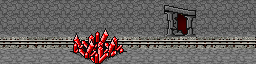
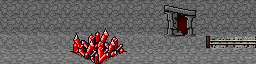
La_Mina2: short rail ending at a buffer stop (option C)

Changed region(s): [[0.4062, 0.5625, 0.8438, 0.7812], [0.0, 0.5625, 0.3438, 0.7812]]

diff --git a/docs/ARCHIVE.md b/docs/ARCHIVE.md
@@ -2171,3 +2171,11 @@ Date: 2026-11-24 (from the author, via dev)
 Belief meter marker (statsPages.js beliefMeter, img/ui/faith/faith_meter_marker.png, now 5x5 px, a simple diamond): hard to read. Draw something more visible that says it can move, e.g. a little stick or needle (about 3 x 10 px, pointing out from the candle along the ring). Dev placed a plain cream stick as a stand-in with a slide animation (.faithStick in index.html); the final art replaces it. The candle stays as it is. Drop it in the review drop.
 ```
 (done: marker B wired)
+
+
+```
+Date: 2026-11-24 (from the author, via dev)
+la_Mina2 (img/places/la_mina/la_mina2.png): the rail road should only extend a little to the right of the scene and never reach the left edge, following the map art. Redraw the rail in the scene and drop it in the review drop.
+Artist 2026-11-24: author approved option C, review/scene_mina/la_mina2_c.png. Waiting for dev to copy it into img/; archive this note after that.
+```
+(done: la_mina2 option C copied in)

diff --git a/ideas.md b/ideas.md
@@ -199,3 +199,4 @@ Newest first; keep the last three, cut older ones to the archive.
 - 2026-11-24 (dev): faith meter stick (statsPages.js, .faithStick in index.html) and the boss-blank-before-a-move fix (ui/bossAttacks.js: canvas cleared at the first frame, not at the start) done, untested in a browser. The Texts console error is fixed (a newline inside a string, texts.js:170). The belief meter marker art and the la_Mina2 rail are in art-notes for the artist.
 - 2026-11-24 (dev): belief meter marker art B (needle on a bead, 5x11) wired in place of the stand-in stick; untested in a browser.
 - 2026-11-24 (dev): travel console edge outline + note box removed; la_mina4 option A copied in; sea-coloured boss spells are art, sent to art-notes. la_Mina2 option C waits for the author's yes.
+- 2026-11-24 (dev): la_mina2 option C copied in; rail note archived.

diff --git a/docs/art-notes.md b/docs/art-notes.md
@@ -61,12 +61,6 @@ Author's note: checking other details about etymos boss, i decided to keep the s
 - I know in the atlas there are two purpules and two green, for this purpos, only arcane and toxic or poison, ignore the plant green like nature.
 ```
 
-```
-Date: 2026-11-24 (from the author, via dev)
-la_Mina2 (img/places/la_mina/la_mina2.png): the rail road should only extend a little to the right of the scene and never reach the left edge, following the map art. Redraw the rail in the scene and drop it in the review drop.
-Artist 2026-11-24: author approved option C, review/scene_mina/la_mina2_c.png. Waiting for dev to copy it into img/; archive this note after that.
-```
-
 
 ```
 Date: 2026-11-20 23:31

diff --git a/CHANGELOG.md b/CHANGELOG.md
@@ -1,6 +1,7 @@
 # Changelog
 
 ## Unreleased
+- La_Mina2: the rail is now a short track that starts past the doorway and ends at a buffer stop (it used to run across the whole scene).
 - Travel dev console: the edges have a dark outline (a green line on green grass was hard to see) and the notes box is gone.
 - La_Mina4 is redrawn as a rail junction: the branch comes toward the viewer with a switch lever.
 - The Texts dev mode loads again (a stray line break inside a string in the away poems made the whole tools script fail with "Invalid or unexpected token").
